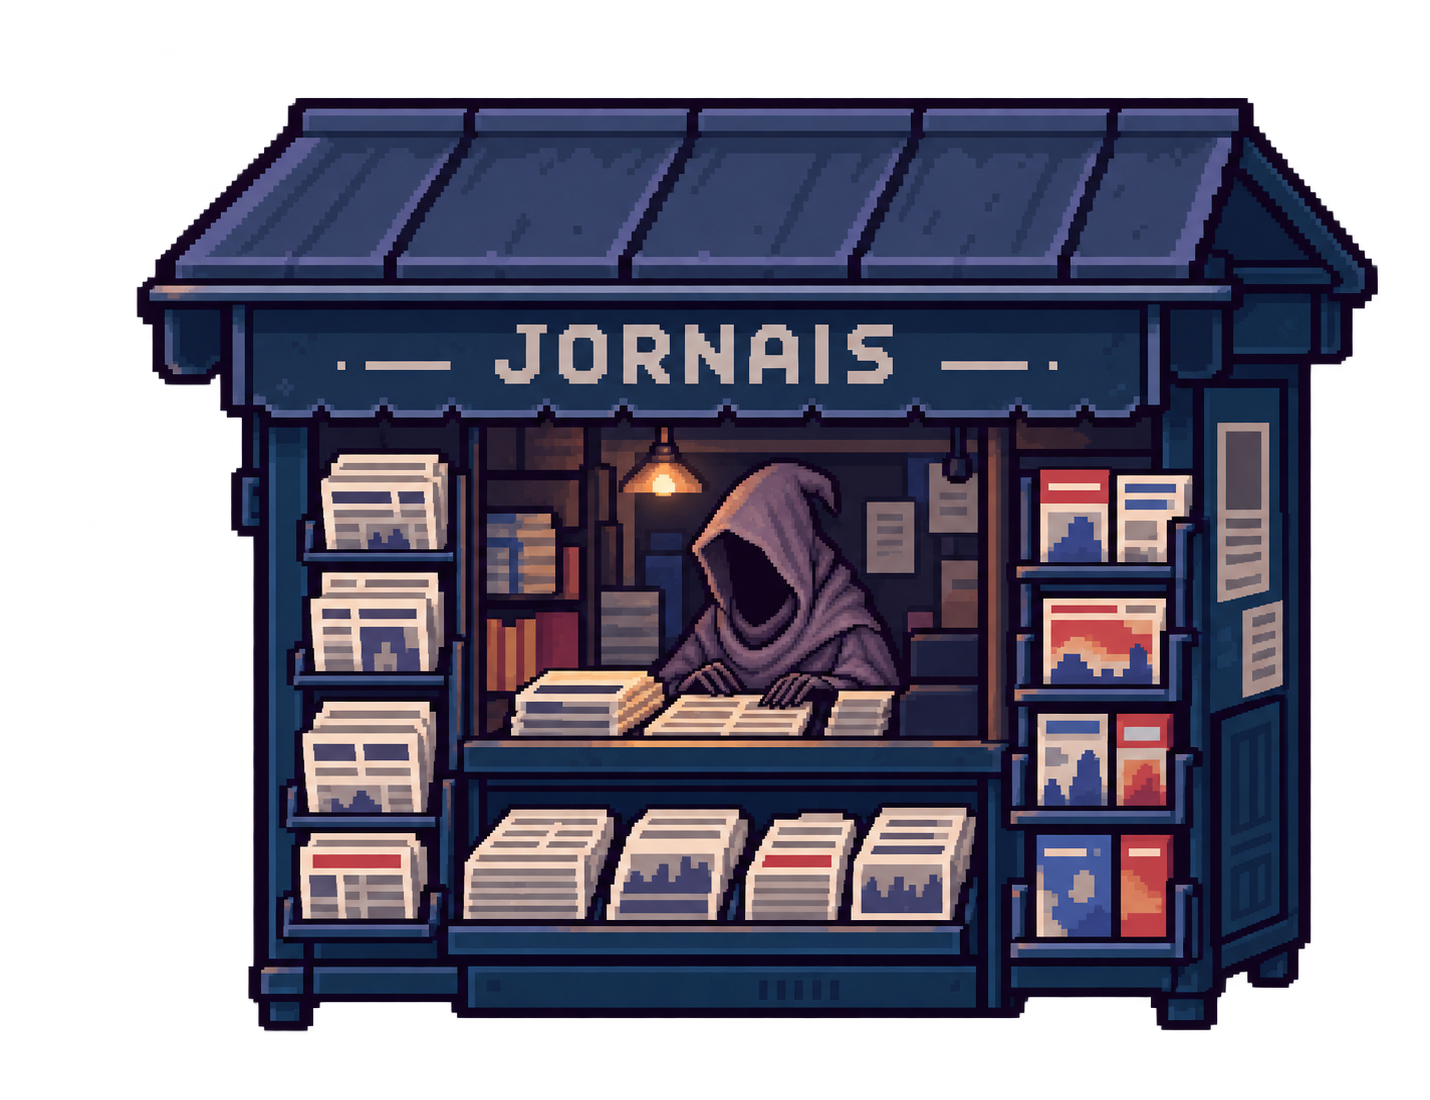
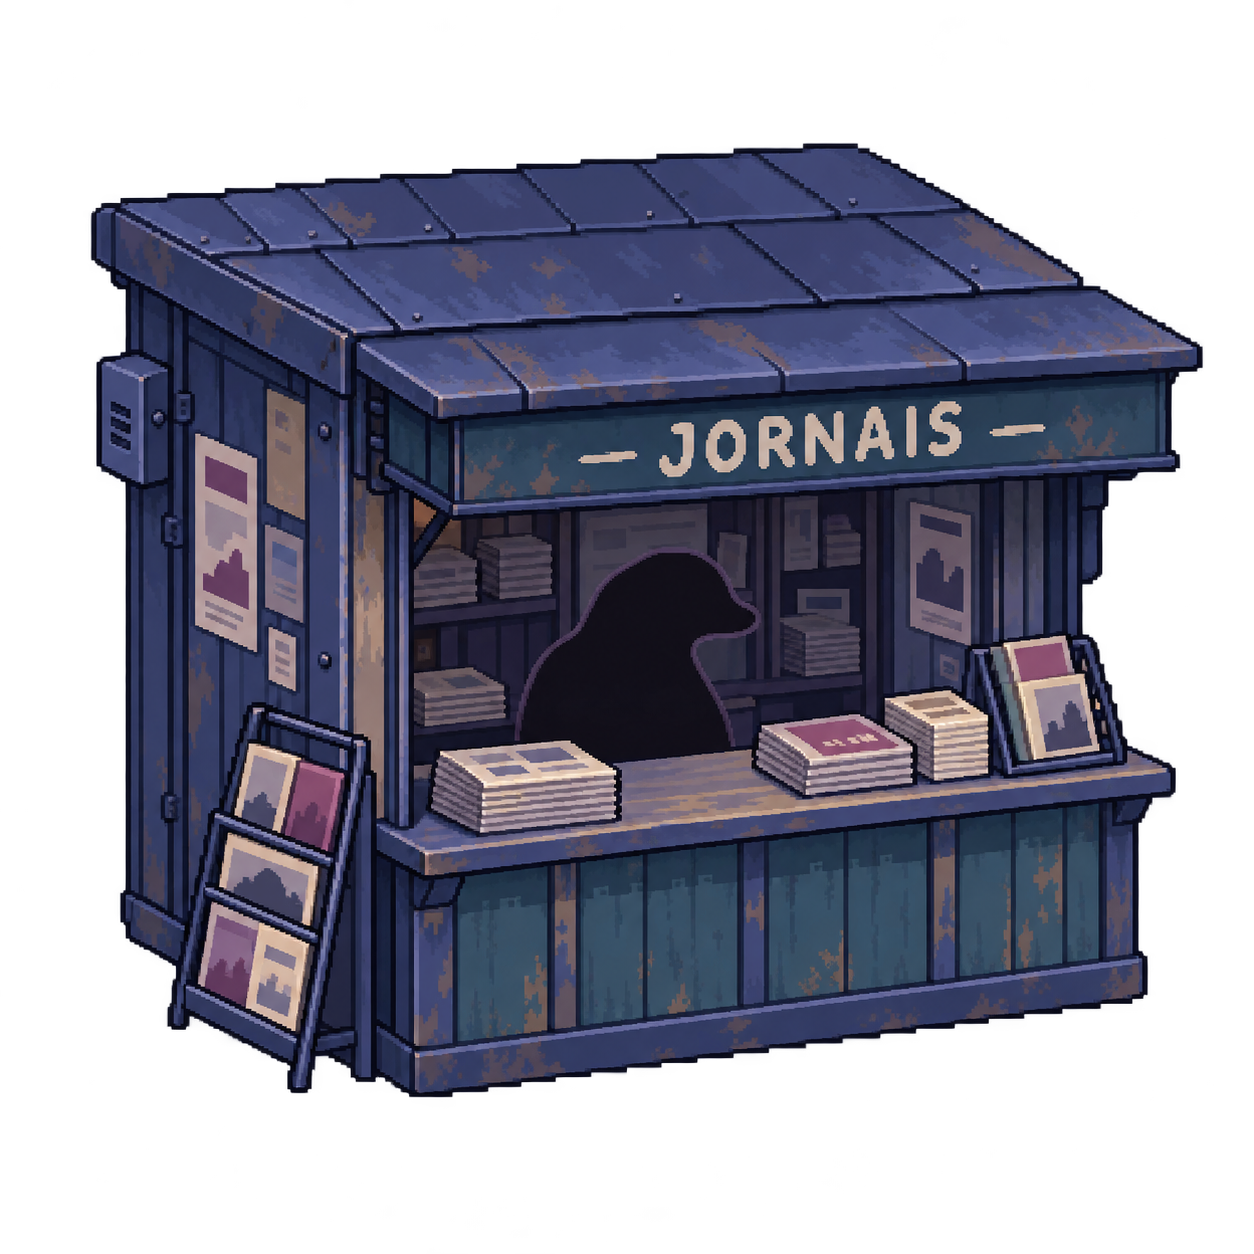
Rebuild newsstand on a paved corner with a formless shadow vendor

diff --git a/godot/README.md b/godot/README.md
@@ -24,7 +24,7 @@ O importador registra as poses em pivôs medidos no quadril, com uma escala fixa
 
 As bases de colisão e silhuetas visuais em `data/lume_geometry.gd` são independentes. Y-sort organiza a profundidade. Barras de grades preservam os vãos. A sombra tem contato no chão e projeção da pose atual, influenciada pelas luminárias próximas.
 
-Os postes da rua têm silhuetas separadas. Um objeto que cobre a personagem torna seu recorte de primeiro plano parcialmente transparente e volta à opacidade normal quando ela sai de trás dele. As letras da lousa e das placas são redesenhadas com Tiny5, incluindo os acentos, nas duas camadas de profundidade.
+Um objeto que cobre a personagem torna seu recorte de primeiro plano parcialmente transparente e volta à opacidade normal quando ela sai de trás dele. As letras da lousa e das placas são redesenhadas com Tiny5, incluindo os acentos, nas duas camadas de profundidade.
 
 ## Pausa no café
 
@@ -34,7 +34,7 @@ O cenário é uma ilustração plana. Colisões e recortes foram traçados manua
 
 ## Validação e arte
 
-A banca fica na calçada oposta, junto ao fim da faixa. Aproxime-se pela esquerda para conversar com o jornaleiro misterioso, dentro da janela de atendimento: “Não chegou nada novo no momento. Volte daqui a 4 dias.” Os quatro dias fazem parte da fala; não há temporizador ou desbloqueio de conteúdo. A base é sólida, e a camada frontal permite enxergar a personagem ao passar atrás da banca. A arte fria, com rosto oculto e mãos sobre o jornal, está registrada em `source_art/newsstand_asset.json` e é preparada por `tools/import_newsstand.gd`.
+A banca ocupa um recuo pavimentado no canto inferior esquerdo, do outro lado da rua. A faixa continua livre e conecta-se à área de atendimento pela direita. Aproxime-se pela frente ou pela direita para conversar com a sombra escura dentro da banca: “Não chegou nada novo no momento. Volte daqui a 4 dias.” Os quatro dias fazem parte da fala; não há temporizador ou desbloqueio de conteúdo. A base sólida acompanha a diagonal do balcão; passar atrás revela a personagem, mas não permite conversar através da parede. O vendedor não possui capuz, roupa, rosto ou anatomia humana. A nova arte usa agrupamentos de pixels mais legíveis e menos detalhes miúdos. O balão aparece ao lado, sobre a rua, sem cobrir o vendedor. Prompts e proveniência estão em `source_art/newsstand_asset.json` e `source_art/courtyard_asset.json`. Os respectivos importadores preparam os PNGs usados pelo jogo. A nova calçada substitui os telhados do canto esquerdo; os postes e fios que cruzavam a rua foram removidos também das colisões e da profundidade. O café, a cadeira, a árvore e o rio mantêm os pixels aprovados da imagem original.
 
 Os originais estão em `source_art/`. O importador original converte os JPEGs recebidos em PNGs válidos e atlas de 32 × 56, preservando a roupa escura e removendo o fundo conectado à borda. A pose sentada e o retrato são PNGs transparentes novos, gerados com image_gen e preparados com `tools/import_seated.gd`; a arte antiga serviu apenas como referência visual. Prompts e proveniência constam em `source_art/generated_assets.json`. A fonte Tiny5 inclui sua licença OFL em `art/fonts/`.
 
@@ -42,6 +42,7 @@ Os originais estão em `source_art/`. O importador original converte os JPEGs re
 godot --headless --path godot --script res://tools/import_art.gd
 godot --headless --path godot --script res://tools/import_seated.gd
 godot --headless --path godot --script res://tools/import_newsstand.gd
+godot --headless --path godot --script res://tools/import_courtyard.gd
 godot --headless --path godot --editor --quit
 godot --headless --path godot --script res://tests/test_lume.gd
 mkdir -p /tmp/myu-web
@@ -62,3 +63,5 @@ O CI testa física e entrada reais, continuidade dos passos, clima automático, 
 - [Tiny5](https://fonts.google.com/specimen/Tiny5)
 
 ![Cadeira e diálogo, captura real no Godot](../docs/lume-seated.png)
+
+![Banca e calçada, captura real no Godot](../docs/lume-newsstand.png)
